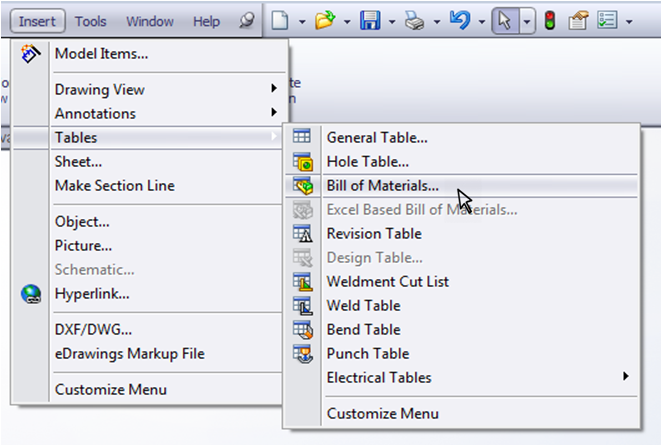
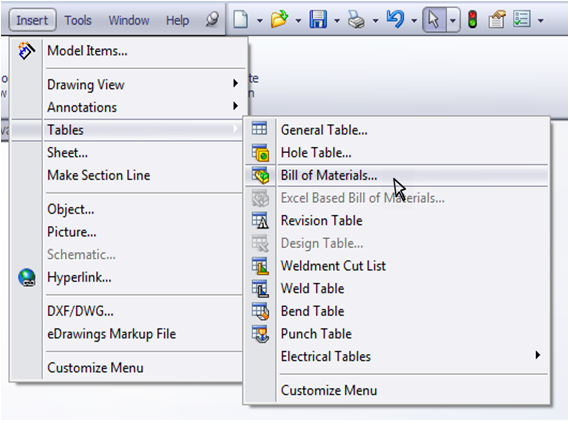
feat: add SolidWorks 2D operation training modules and supporting assets

diff --git a/frontend/src/components/ICAD/Manual/Solidworks/2D_Operation/InsertComponentsInThePart.tsx b/frontend/src/components/ICAD/Manual/Solidworks/2D_Operation/InsertComponentsInThePart.tsx
@@ -108,14 +108,14 @@ const Page1Lesson: React.FC<Page1Props> = ({
 
                             <div className="instruction-step" style={{ paddingTop: '1rem', paddingBottom: '0' }}>
                                 <div className="step-header" style={{padding:'8px 0px'}}>
-                                    <span className="step-number">1</span>
+                                    <span className="step-number" style={{ marginLeft: '50px'}}>3.1</span>
                                     <span className="step-label">View Layout &gt; Model View &gt; Browse file from the folder &gt; Click Assem1 then Open.</span>
                                 </div>
                                 <div className="step-description">
                                     <div className="image-wrapper" style={{ marginTop: '0.2rem' }}>
                                         <img src={layoutImg} alt="Insert Parts/Assembly via View Layout" className="software-screenshot screenshot-wide" />
                                     </div>
-                                    <div className="instruction-box" style={{ marginTop: '0.5rem' , marginLeft:'330px'}}>
+                                    <div className="instruction-box" style={{ marginTop: '0.5rem'}}>
                                         <p className="p-flush red-text">※ It only inserts a part/assy view individually.</p>
                                     </div>
                                 </div>
@@ -123,11 +123,11 @@ const Page1Lesson: React.FC<Page1Props> = ({
 
                             <div className="instruction-step" style={{ paddingTop: '1.5rem', paddingBottom: '0' }}>
                                 <div className="step-header" style={{padding:'8px 0px'}}>
-                                    <span className="step-number" style={{ marginLeft: '50px'}}>1.2</span> 
+                                    <span className="step-number" style={{ marginLeft: '50px'}}>3.2</span> 
                                     <span className="step-label">Drag and Drop</span>
                                 </div>
                                 <div className="step-description">
-                                    <div className="instruction-box" style={{ marginTop: '1.5rem' , marginLeft: '330px' }}>
+                                    <div className="instruction-box" style={{ marginTop: '1.5rem'}}>
                                         <p className="p-flush red-text">※ Hold the part/assy file from the folder then drag to the dwg sheet.</p>
                                     </div>
                                     <div className="image-wrapper" style={{ marginTop: '1.5rem' }}>
@@ -138,7 +138,7 @@ const Page1Lesson: React.FC<Page1Props> = ({
 
                             <div className="instruction-step" style={{ paddingTop: '1.5rem', paddingBottom: '0' }}>
                                 <div className="step-header" style={{padding:'8px 0px'}}>
-                                    <span className="step-number" style={{ marginLeft: '50px'}}>1.3</span>
+                                    <span className="step-number" style={{ marginLeft: '50px'}}>3.3</span>
                                     <span className="step-label">Make drawing from Part/Assy</span>
                                 </div>
                                 <div className="step-description">
@@ -152,7 +152,7 @@ const Page1Lesson: React.FC<Page1Props> = ({
                                             </div>
                                         </div>
                                         <div style={{ flex: '0 1 auto', minWidth: '200px' }}>
-                                            <div className="instruction-box" style={{ marginTop: '0.2rem'  , marginLeft:'300px' }}>
+                                            <div className="instruction-box" style={{ marginTop: '1.5rem' , width:'900px'}}>
                                                 <p className="p-flush red-text">
                                                     ※ It uses <strong>View Palette</strong> where
                                                     the user can choose then

diff --git a/frontend/src/components/ICAD/Manual/Solidworks/2D_Operation/AddingNotesContent.tsx b/frontend/src/components/ICAD/Manual/Solidworks/2D_Operation/AddingNotesContent.tsx
@@ -40,17 +40,18 @@ const AddingNotesContent: React.FC = () => {
                     <span className="step-label">Click <img src={checkImg} alt="Check" style={{ height: '18px', verticalAlign: 'middle', display: 'inline-block', marginLeft: '4px' }} /></span>
                 </div>
                 <div className="step-description">
-                    <div className="image-wrapper" style={{ marginTop: '0.2rem', width:'700px' }}>
-                        <img src={plImg} alt="PL Note" className="software-screenshot screenshot-wide" />
+                    <div style={{ display: 'flex', alignItems: 'flex-start', gap: '1.5rem', marginTop: '0.2rem' }}>
+                        <div className="image-wrapper" style={{ flex: 1 }}>
+                            <img src={plImg} alt="PL Note" className="software-screenshot screenshot-wide" style={{ width: '100%' }} />
+                        </div>
+                        <div className="image-wrapper" style={{ flexShrink: 0 }}>
+                            <img src={arrowTypeImg} alt="Arrow Type" className="software-screenshot" style={{ width: '120px' }} />
+                        </div>
                     </div>
 
-                    <div className="image-wrapper" style={{ marginTop: '0.2rem' , marginLeft:'46rem' , transform: 'translateY(-300px)'}}>
-                        <img src={arrowTypeImg} alt="Arrow Type" className="software-screenshot" />
-                    </div>
-
-                    <div className="instruction-box" style={{ marginTop: '-15rem' }}>
-                        <p className="p-flush red-text">
-                            <img src={rightClickImg} alt="Right Click" style={{ height: '40px', verticalAlign: 'middle', display: 'inline-block', marginRight: '8px' }} />
+                    <div className="instruction-box" style={{ marginTop: '1rem' ,marginLeft: '-0.1rem', marginRight: '9rem' , transform: 'translateY(-106.6px)'}}>
+                        <p className="p-flush red-text" style={{fontSize: '15px'}}>
+                            <img src={rightClickImg} alt="Right Click" style={{ height: '50px', verticalAlign: 'middle', display: 'inline-block', marginRight: '8px' }} />
                             ※ To change the arrow head, right click on the arrow head then pick on the Arrow head types.
                         </p>
                     </div>

diff --git a/frontend/src/components/ICAD/Manual/Solidworks/2D_Operation/DimensioningChamferContent.tsx b/frontend/src/components/ICAD/Manual/Solidworks/2D_Operation/DimensioningChamferContent.tsx
@@ -22,18 +22,19 @@ const DimensioningChamferContent: React.FC = () => {
                     <div className="image-wrapper" style={{ marginTop: '0.2rem' }}>
                         <img src={chamferDimensionImg} alt="Chamfer Dimension" className="software-screenshot screenshot-wide" />
                     </div>
-                    <div className="image-wrapper" style={{ marginTop: '0.2rem' }}>
-                        <img src={chamferEdgeImg} alt="Chamfer Edge" className="software-screenshot" />
+                    <div style={{ display: 'flex', alignItems: 'flex-start', gap: '1.5rem', marginTop: '1rem' }}>
+                        <div className="image-wrapper" style={{ flexShrink: 0 }}>
+                            <img src={chamferEdgeImg} alt="Chamfer Edge" className="software-screenshot" />
+                        </div>
+                        <ol style={{ paddingLeft: '7.5rem', margin: '0', color: 'var(--text-muted)', lineHeight: '2.2', flex: 1 }}>
+                            <div>Select the chamfered edge.</div>
+                            Select one of the lead-in edges.
+                            <div></div>
+                            Place the dimension.
+                            <div>Click <img src={checkImg} alt="Check" style={{ height: '25px', verticalAlign: 'middle', display: 'inline-block', marginLeft: '4px' }} />
+                            </div>
+                        </ol>
                     </div>
-                    <ol style={{ paddingLeft: '1.25rem', margin: '1.5rem 0 0 0',  color: 'var(--text-muted)', lineHeight: '2.2' }}>
-                      <div>  Select the chamfered edge.</div>
-                        Select one of the lead-in edges.
-                        <div></div>
-                        Place the dimension.
-
-                     <div>Click <img src={checkImg} alt="Check" style={{ height: '25px', verticalAlign: 'middle', display: 'inline-block', marginLeft: '4px' }} />
-                     </div>
-                    </ol>
                 </div>
             </div>
         </>

diff --git a/frontend/src/components/ICAD/Manual/Solidworks/2D_Operation/AddOtherViewsAsNeeded.tsx b/frontend/src/components/ICAD/Manual/Solidworks/2D_Operation/AddOtherViewsAsNeeded.tsx
@@ -138,7 +138,7 @@ const AddOtherViewsAsNeeded: React.FC<AddOtherViewsAsNeededProps> = ({
                                             <img src={sectionView1Img} alt="Property Manager Section 1" className="software-screenshot" style={{ width: '350px' }} />
                                         </div>
                                         <div style={{ flex: '1 1 auto', minWidth: '400px' }}>
-                                            <img src={sectionView2Img} alt="Property Manager Section 2" className="software-screenshot screenshot-wide" style={{ width: '100%', maxWidth: '550px' }} />
+                                            <img src={sectionView2Img} alt="Property Manager Section 2" className="software-screenshot screenshot-wide" style={{ width: '100%', height:'573px' }} />
                                              </div>
                                             <div className="instruction-box" style={{ marginTop: '2rem', padding: 20 }}>
                                                 <div>

diff --git a/frontend/src/components/ICAD/Manual/Solidworks/2D_Operation/CenterMarkContent.tsx b/frontend/src/components/ICAD/Manual/Solidworks/2D_Operation/CenterMarkContent.tsx
@@ -37,7 +37,7 @@ const CenterMarkContent: React.FC = () => {
                     <span className="step-label">Click <img src={checkImg} alt="Check" style={{ height: '25px', verticalAlign: 'middle', display: 'inline-block', marginLeft: '4px' }} /></span>
                 </div>
                 <div className="step-description">
-                    <img src={centerMarkImg}  alt="Center Mark Properties" className="software-screenshot" />
+                    <img src={centerMarkImg}  alt="Center Mark Properties" className="software-screenshot"  style={{maxHeight: '750px'}}/>
                     <div className="instruction-box" style={{ marginTop: '0.5rem' }}>
                         <p className="p-flush red-text">
                             ※ Click the holes to manually insert center mark.

diff --git a/frontend/src/components/ICAD/Manual/Solidworks/2D_Operation/InsertMainViewsContent.tsx b/frontend/src/components/ICAD/Manual/Solidworks/2D_Operation/InsertMainViewsContent.tsx
@@ -10,6 +10,9 @@ const InsertMainViewsContent: React.FC = () => {
                 <ol style={{ paddingLeft: '1.25rem', margin: '1rem 0', color: 'var(--text-normal)', lineHeight: '2.2' }}>
 
 
+
+                  <span className="red-text" style={{ fontSize: "15px" }}>( In Lesson <strong>"Insert Components in the Part"</strong> Use No. 3.1 for inserting the part. )</span>
+
                     <div className="step-header" style={{padding:'8px 0px' }}>
                 <span className="step-number">1</span>
            On Display Style, Click the <strong>Hidden Lines Visible</strong> <img src={hiddenVisibleImg} alt="Hidden Lines Visible" style={{ height: '50px', verticalAlign: 'middle', display: 'inline-block', marginLeft: '4px' }} />

diff --git a/frontend/src/views/mentor/mentorConstants.ts b/frontend/src/views/mentor/mentorConstants.ts
@@ -1196,7 +1196,7 @@ export const SOLIDWORKS_2D_OPERATION_LESSONS: Lesson[] = [
     title: 'Add Dimensions and Notes', 
     content: ['Dimensioning', 'Dimensioning Hole', 'Dimensioning Chamfer', 'Adding Notes'],
     children: [
-      { id: 'sw-2d-add-dimension-notes-base', title: 'Add Dimensions and Notes', content: ['Dimensioning'] },
+      { id: 'sw-2d-add-dimension-notes-base', title: 'Dimensioning', content: ['Dimensioning'] },
       { id: 'sw-2d-dimensioning-hole', title: 'Dimensioning Hole', content: ['Dimensioning Hole'] },
       { id: 'sw-2d-dimensioning-chamfer', title: 'Dimensioning Chamfer', content: ['Dimensioning Chamfer'] },
       { id: 'sw-2d-adding-notes', title: 'Adding Notes', content: ['Adding Notes'] }

diff --git a/frontend/src/components/ICAD/Manual/Solidworks/2D_Operation/InsertBillOfMaterial.tsx b/frontend/src/components/ICAD/Manual/Solidworks/2D_Operation/InsertBillOfMaterial.tsx
@@ -46,7 +46,7 @@ const InsertBillOfMaterial: React.FC<InsertBillOfMaterialProps> = ({
                                 <span className="step-number">1</span>
                                 <span className="step-label">In the <strong>Insert</strong> menu, under <strong>Tables</strong>, click <strong>Bill of Materials</strong>.</span>
                             </div>
-                            <img src={insertMenuImg} alt="Insert Menu Image" style={{height:'500px' ,width: '700px' }}/>
+                            <img src={insertMenuImg} alt="Insert Menu Image" style={{height:'20rem', width:'30rem'}}/>
                         </div>
 
                         {/* Step 2 */}

diff --git a/frontend/src/components/ICAD/Manual/Solidworks/2D_Operation/ProjectedViewContent.tsx b/frontend/src/components/ICAD/Manual/Solidworks/2D_Operation/ProjectedViewContent.tsx
@@ -51,7 +51,7 @@ const ProjectedViewContent: React.FC = () => {
                     <p className="p-flush red-text">
                         ※ Project view until all the needed views are inserted. 
                         <div>
-                         <span className="red-text" style={{ fontSize: "15px" }}>(See lesson <strong>"Insert Main Views"</strong>Projected Views)</span>
+                         <span className="red-text" style={{ fontSize: "15px" }}>(See lesson <strong>"Insert Main Views"</strong> Projected Views)</span>
                         </div>
                     </p>
                 </div>
